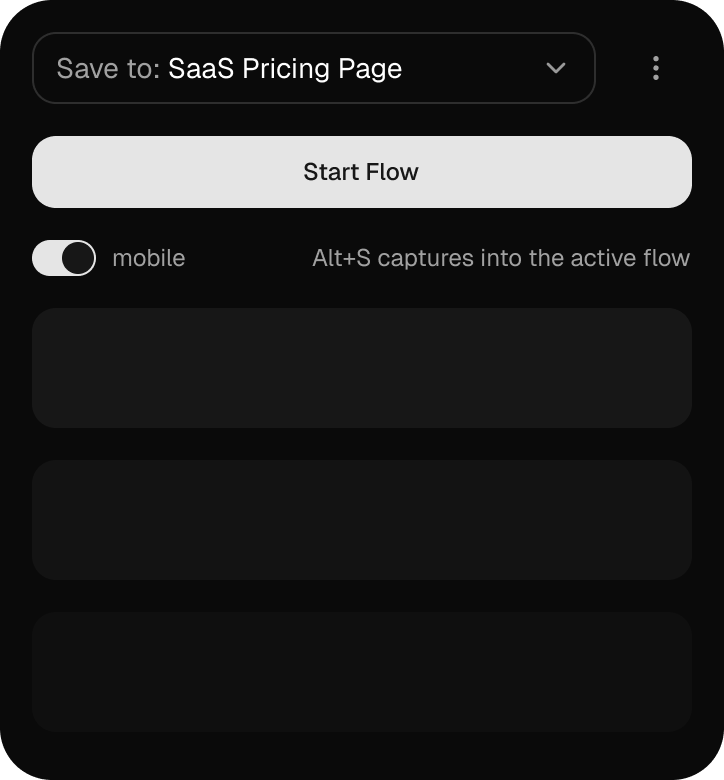
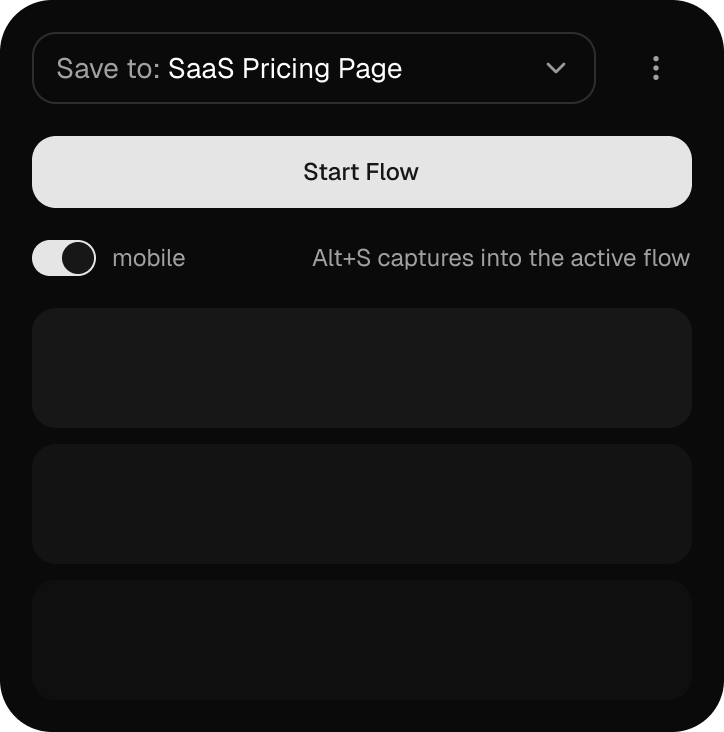
Update how-it-works screenshots and add descriptive alt text
Refresh the step 1 and 2 extension screenshots, and give each image
a specific alt description instead of a generic template string for
better image SEO. Also lazy-load and async-decode the images since
they sit below the fold.

Changed region(s): [[0.0304, 0.0301, 0.9724, 0.3907], [0.8812, 0.0601, 0.9116, 0.1202]]

diff --git a/src/components/sections/how-it-works.tsx b/src/components/sections/how-it-works.tsx
@@ -6,18 +6,21 @@ const steps = [
     title: "Start a flow",
     text: "Pick a board and hit Start Flow. Screela names the run after the domain automatically, no typing required. Optionally add a mobile track.",
     image: "/images/how-it-works/extention1.png",
+    alt: "Screela Chrome extension popup with a board selected, the mobile track toggle, and the Start Flow button",
   },
   {
     number: "2",
     title: "Walk the product",
     text: "Press Alt+S on each step. Screela captures the full page, handling sticky headers and waiting out animations on its own.",
     image: "/images/how-it-works/extention2.png",
+    alt: "Screela extension recording a flow in progress, showing the Alt+S capture shortcut and the previous step already saved",
   },
   {
     number: "3",
     title: "Get a finished flow",
     text: "Finished flows land back in the list already named, timed, and tagged with step count and device, desktop, mobile, or both, so there's nothing left to sort or rename.",
     image: "/images/how-it-works/extention3.png",
+    alt: "Screela extension flow list with completed captures auto-named by domain, showing step count, device, and duration",
   },
 ]
 
@@ -50,9 +53,11 @@ export function HowItWorks() {
                 <div className="flex w-full items-center justify-center bg-black/20 py-10 sm:py-14 md:w-1/2">
                   <img
                     src={step.image}
-                    alt={`${step.title} in the Screela extension`}
+                    alt={step.alt}
                     width={362}
                     height={390}
+                    loading="lazy"
+                    decoding="async"
                     className="h-auto w-[280px] sm:w-[362px]"
                   />
                 </div>